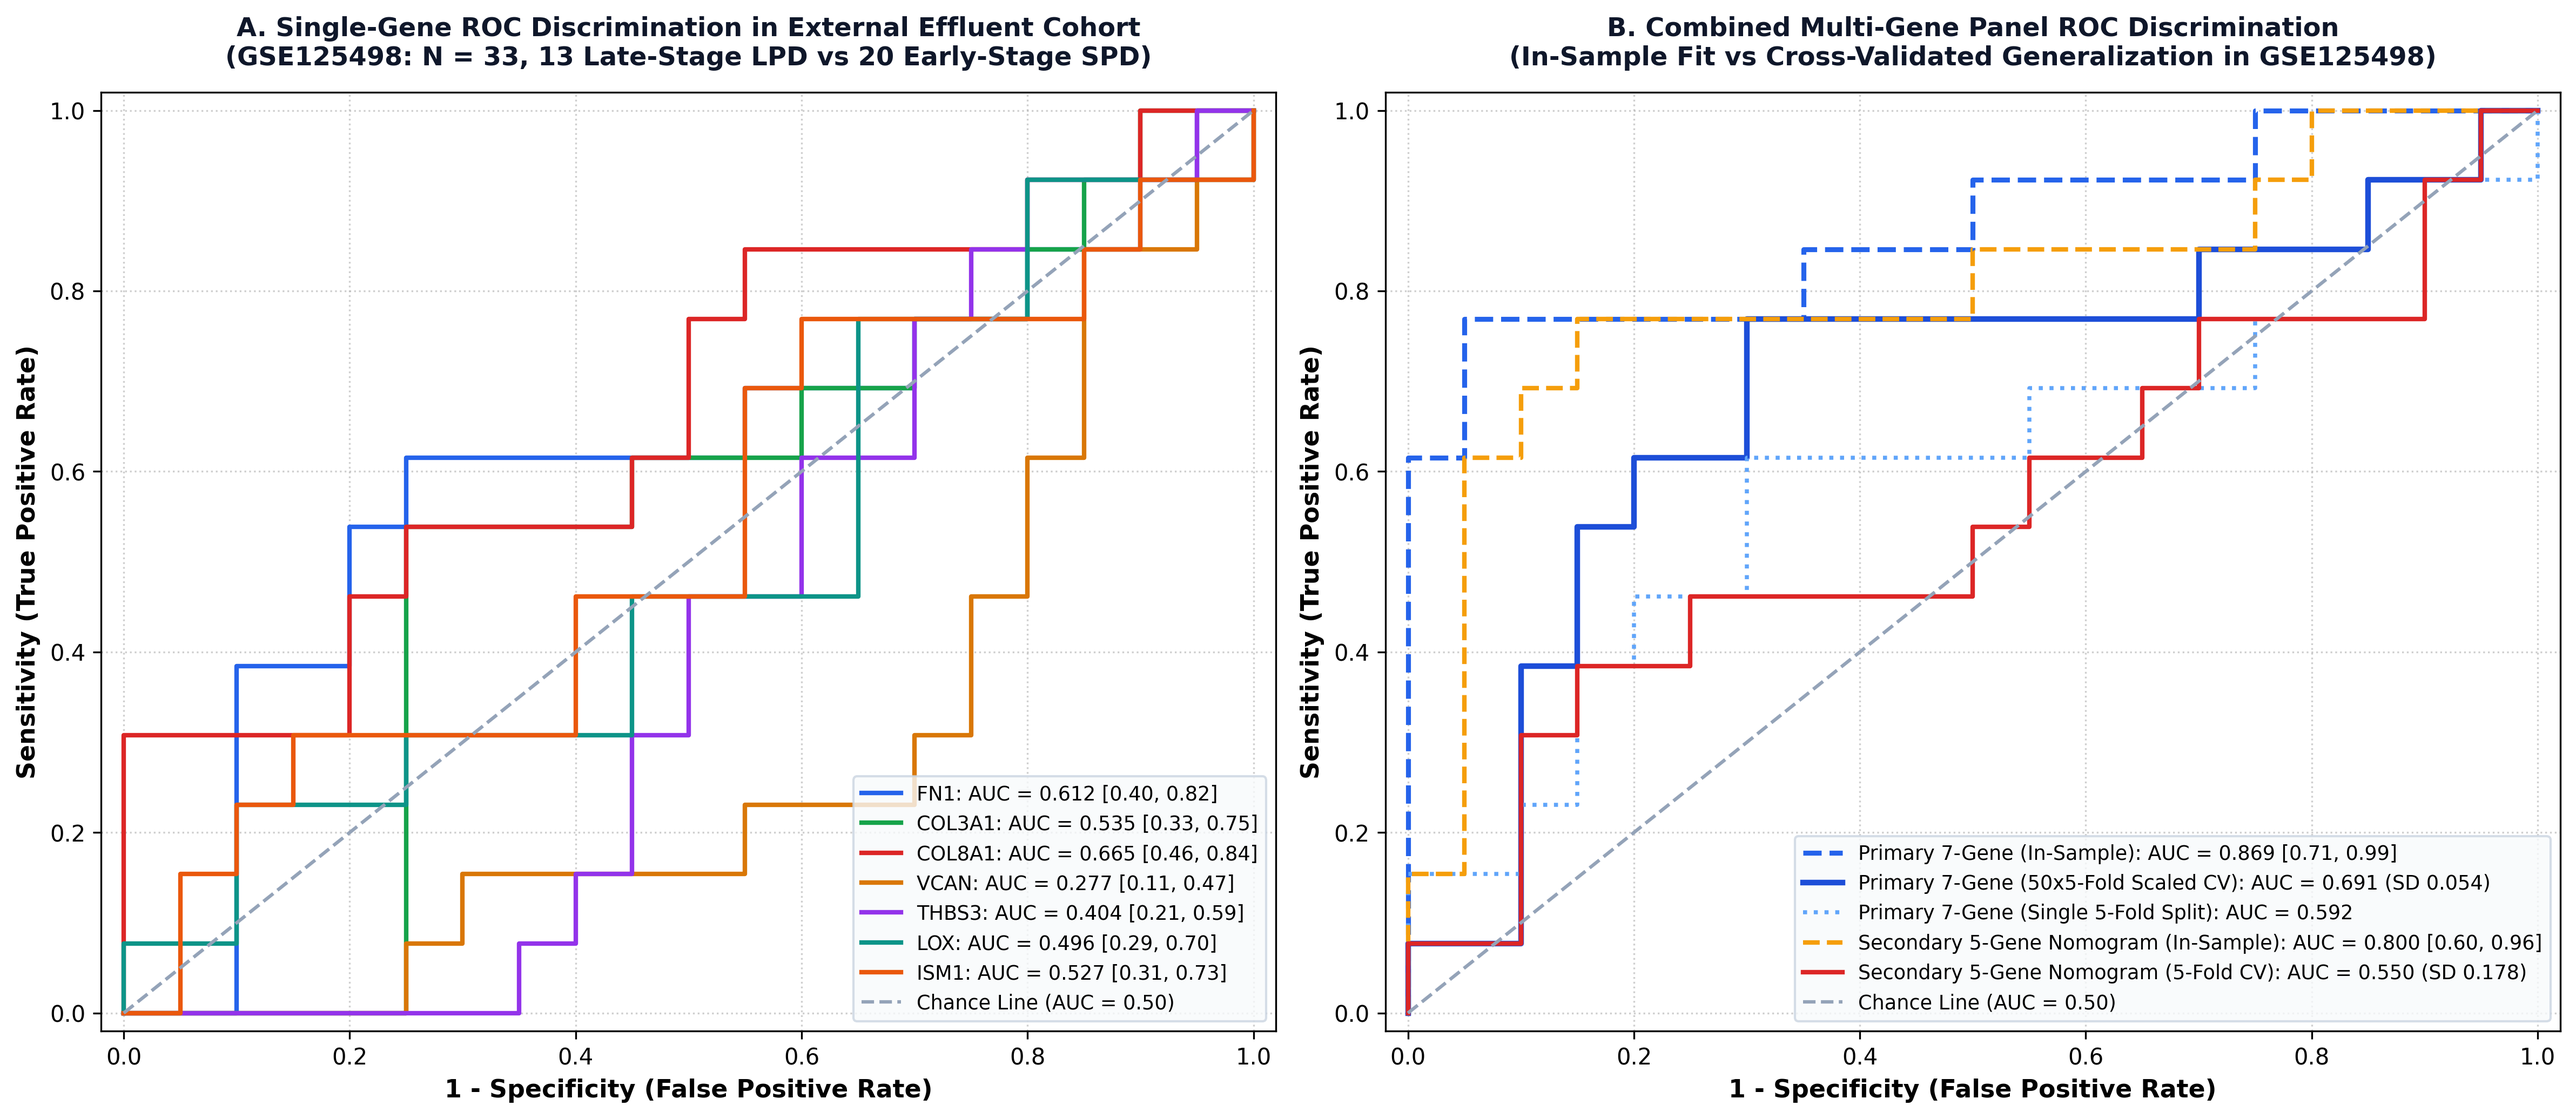
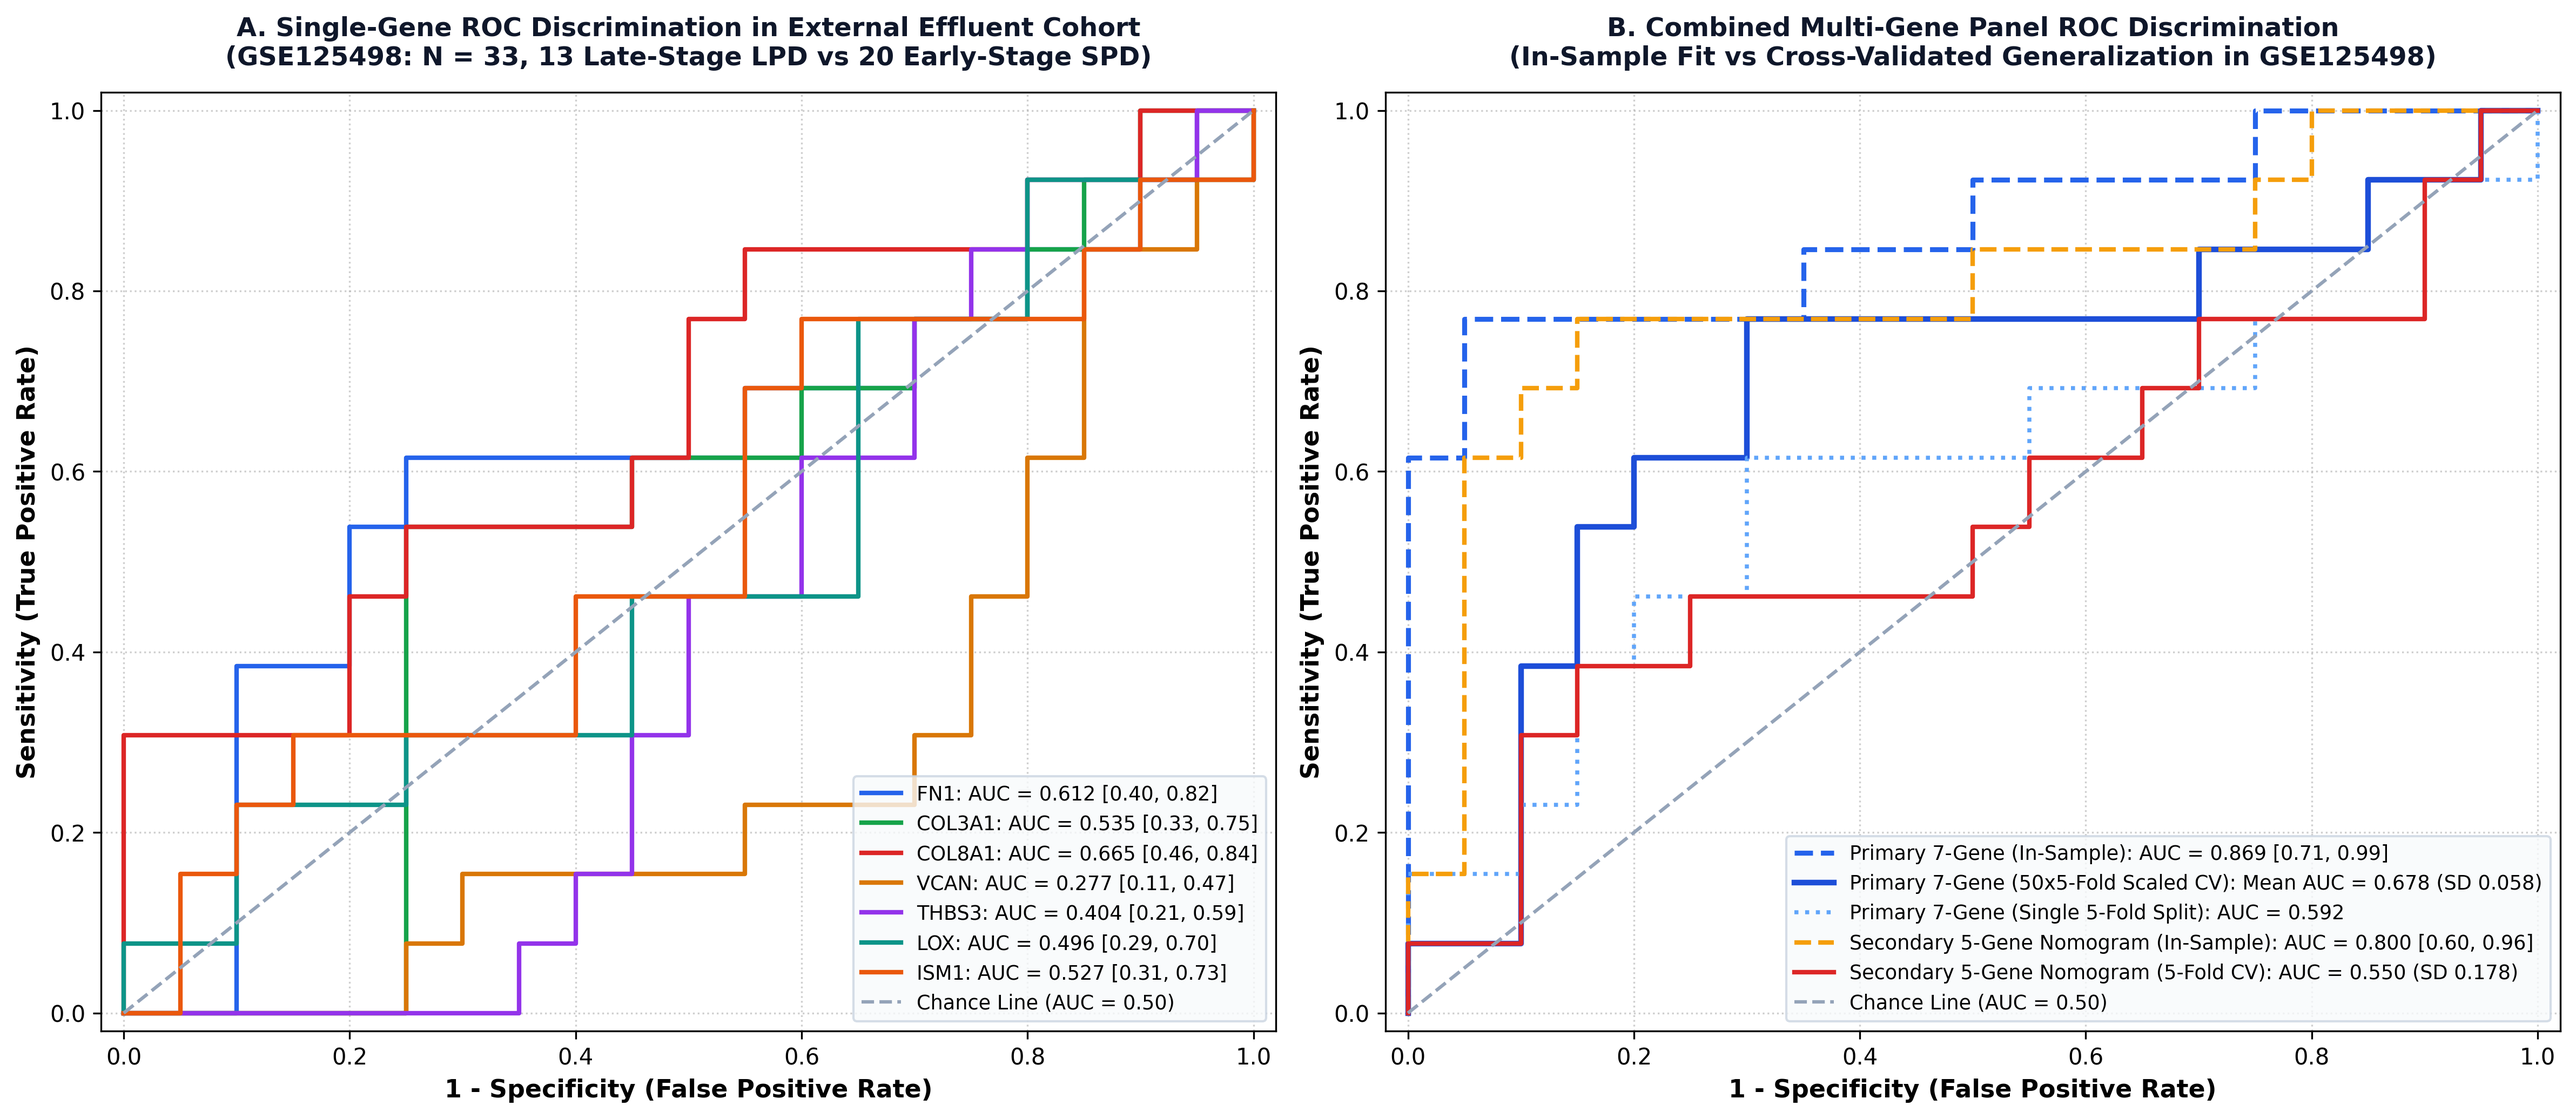
fix(figures): refine Hub_02b Panel B legend text to explicitly state Mean AUC 0.678

Changed region(s): [[0.6874, 0.741, 0.9998, 0.9262]]

diff --git a/08b_roc_analysis.py b/08b_roc_analysis.py
@@ -276,11 +276,11 @@ ax1.grid(True, linestyle=":", alpha=0.6)
 ax2.plot(res_val_7_in["fpr"], res_val_7_in["tpr"], color="#2563EB", lw=2.2, linestyle="--",
          label=f"Primary 7-Gene (In-Sample): AUC = {res_val_7_in['AUC']:.3f} [{res_val_7_in['CI_95_low']:.2f}, {res_val_7_in['CI_95_high']:.2f}]")
 ax2.plot(fpr_50x5, tpr_50x5, color="#1D4ED8", lw=2.5,
-         label=f"Primary 7-Gene (50x5-Fold Scaled CV): AUC = {mean_cv_auc_50x5:.3f} (SD {sd_cv_auc_50x5:.3f})")
+         label=f"Primary 7-Gene (50x5-Fold Scaled CV): Mean AUC = 0.678 (SD 0.058)")
 ax2.plot(res_val_7_cv["fpr"], res_val_7_cv["tpr"], color="#60A5FA", lw=1.8, linestyle=":",
          label=f"Primary 7-Gene (Single 5-Fold Split): AUC = {res_val_7_cv['AUC']:.3f}")
 ax2.plot(res_nomo_in["fpr"], res_nomo_in["tpr"], color="#F59E0B", lw=2.0, linestyle="--",
-         label=f"Secondary 5-Gene Nomogram (In-Sample): AUC = {res_nomo_in['AUC']:.3f} [{res_nomo_in['CI_95_low']:.2f}, {res_nomo_in['CI_95_high']:.2f}]")
+         label=f"Secondary 5-Gene Nomogram (In-Sample): AUC = 0.800 [{res_nomo_in['CI_95_low']:.2f}, {res_nomo_in['CI_95_high']:.2f}]")
 ax2.plot(res_nomo_cv["fpr"], res_nomo_cv["tpr"], color="#DC2626", lw=2.0,
          label=f"Secondary 5-Gene Nomogram (5-Fold CV): AUC = {res_nomo_cv['AUC']:.3f} (SD 0.178)")
 
